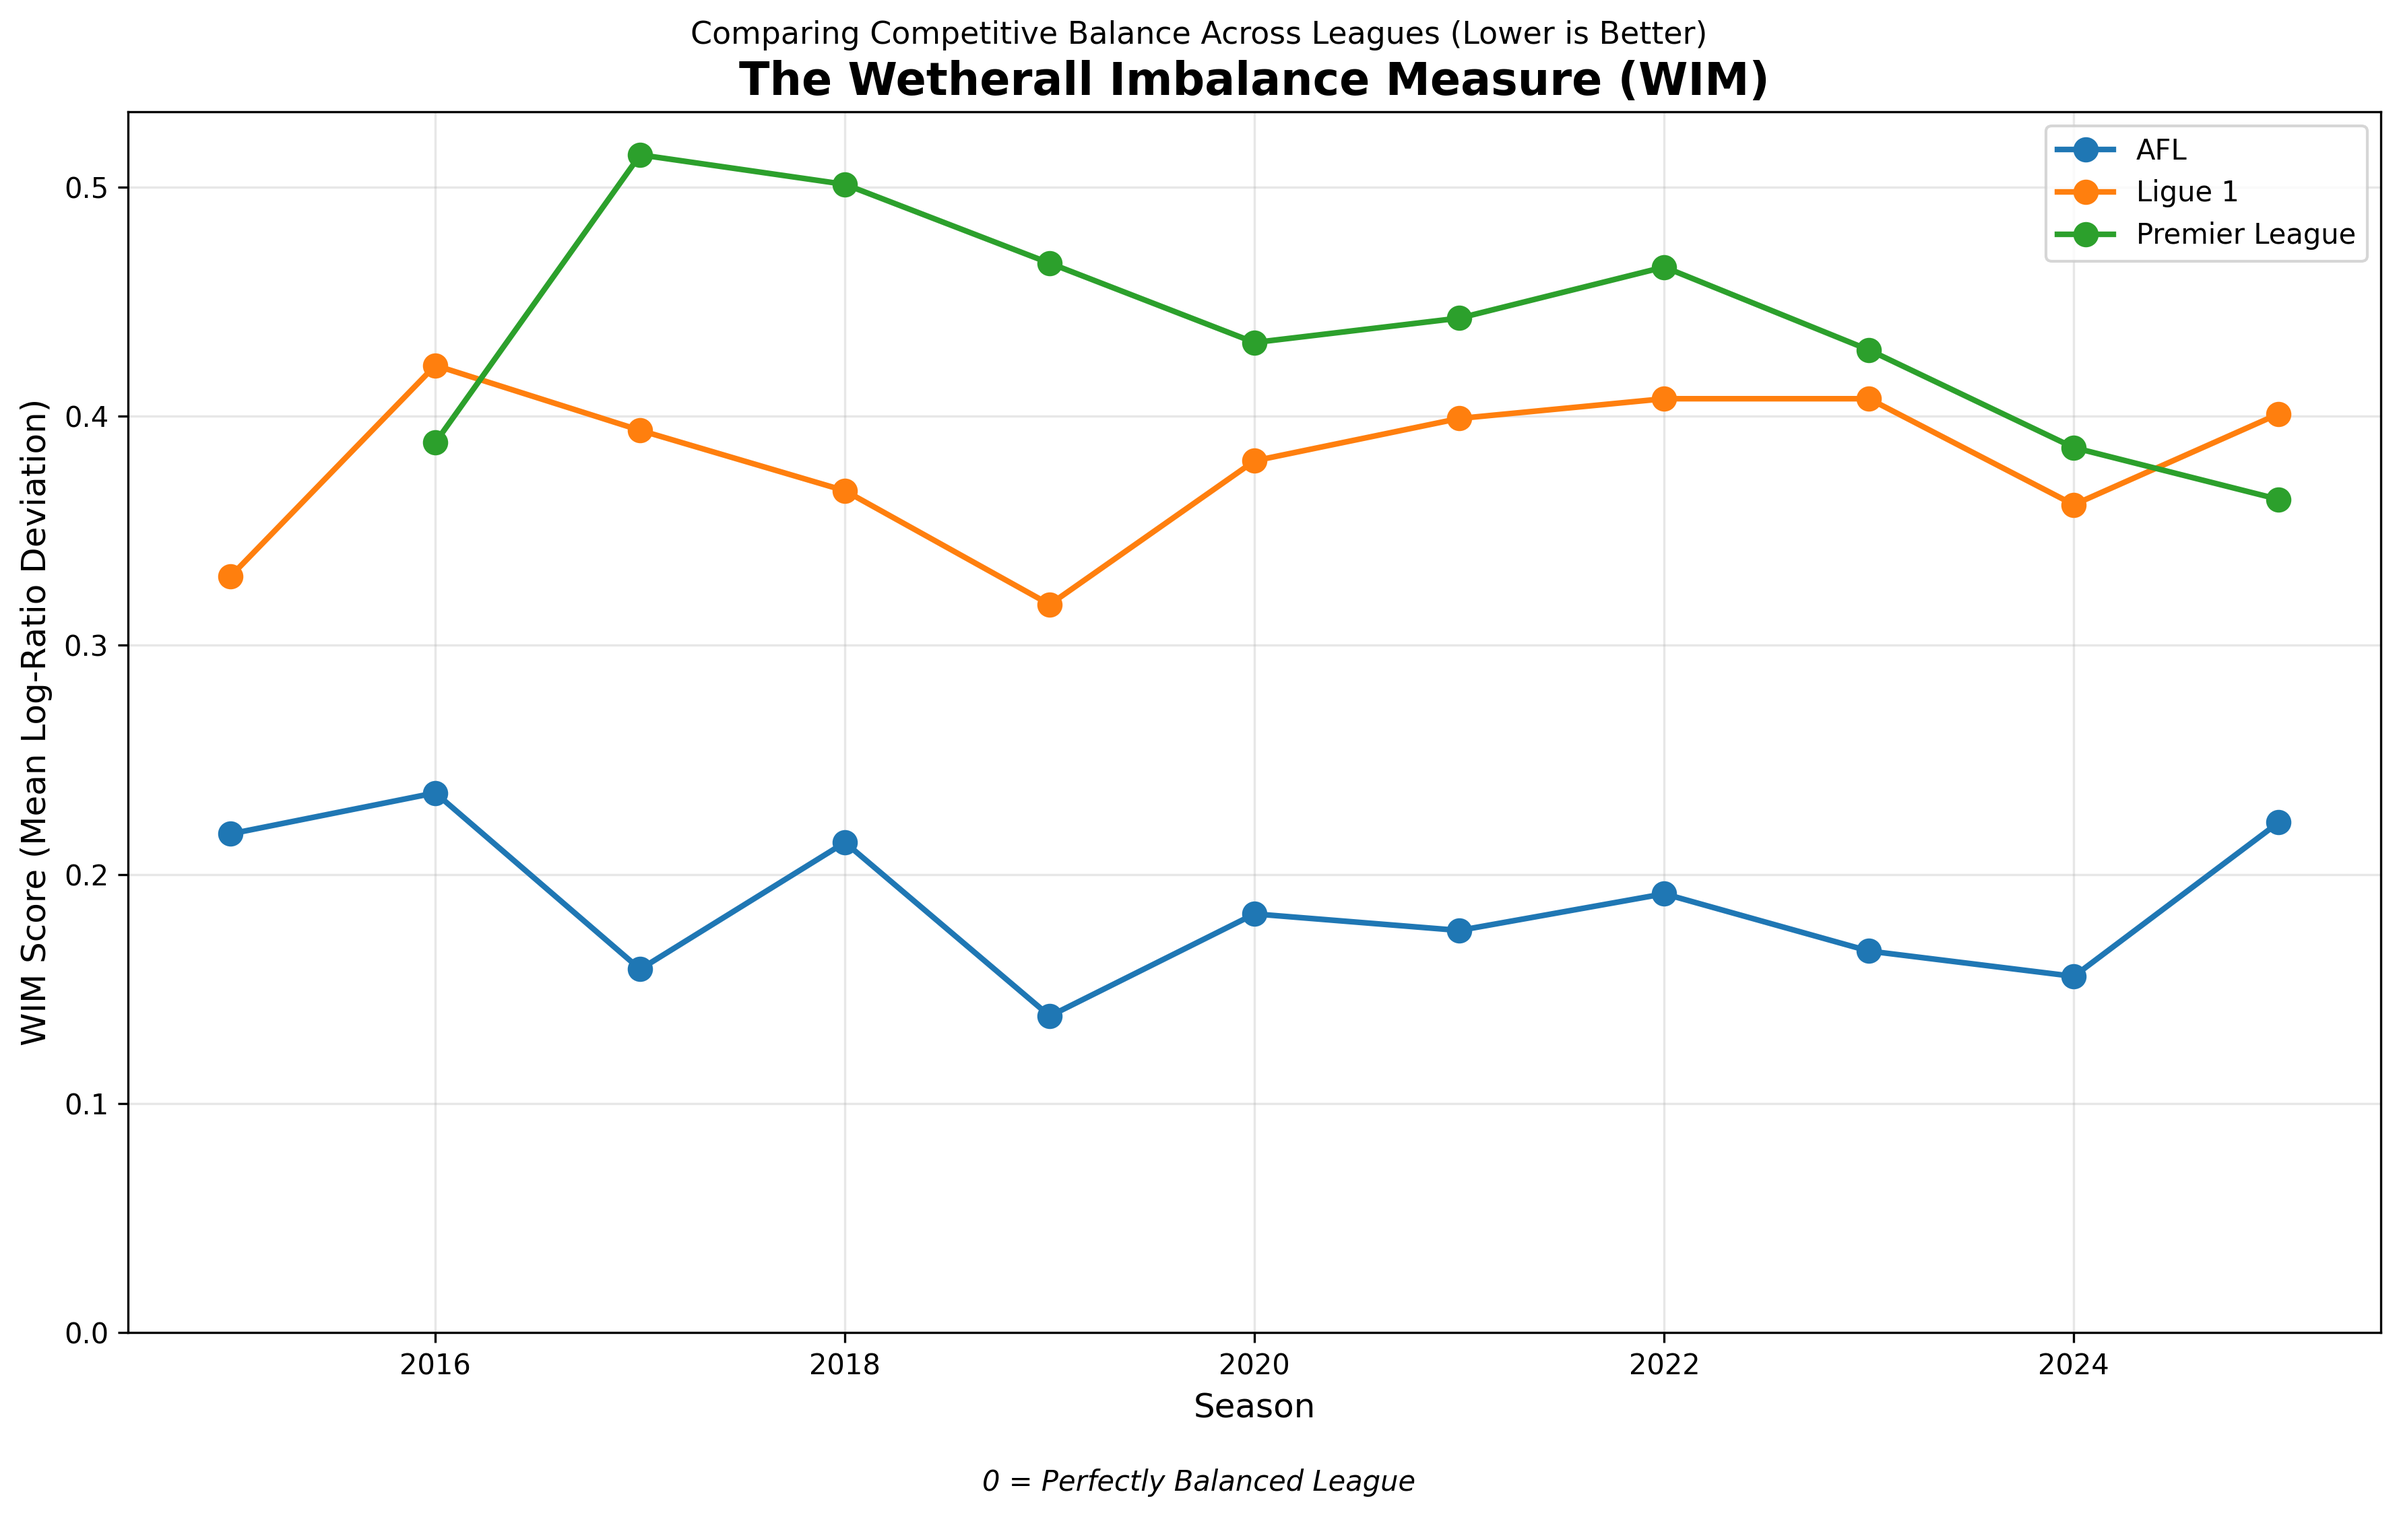
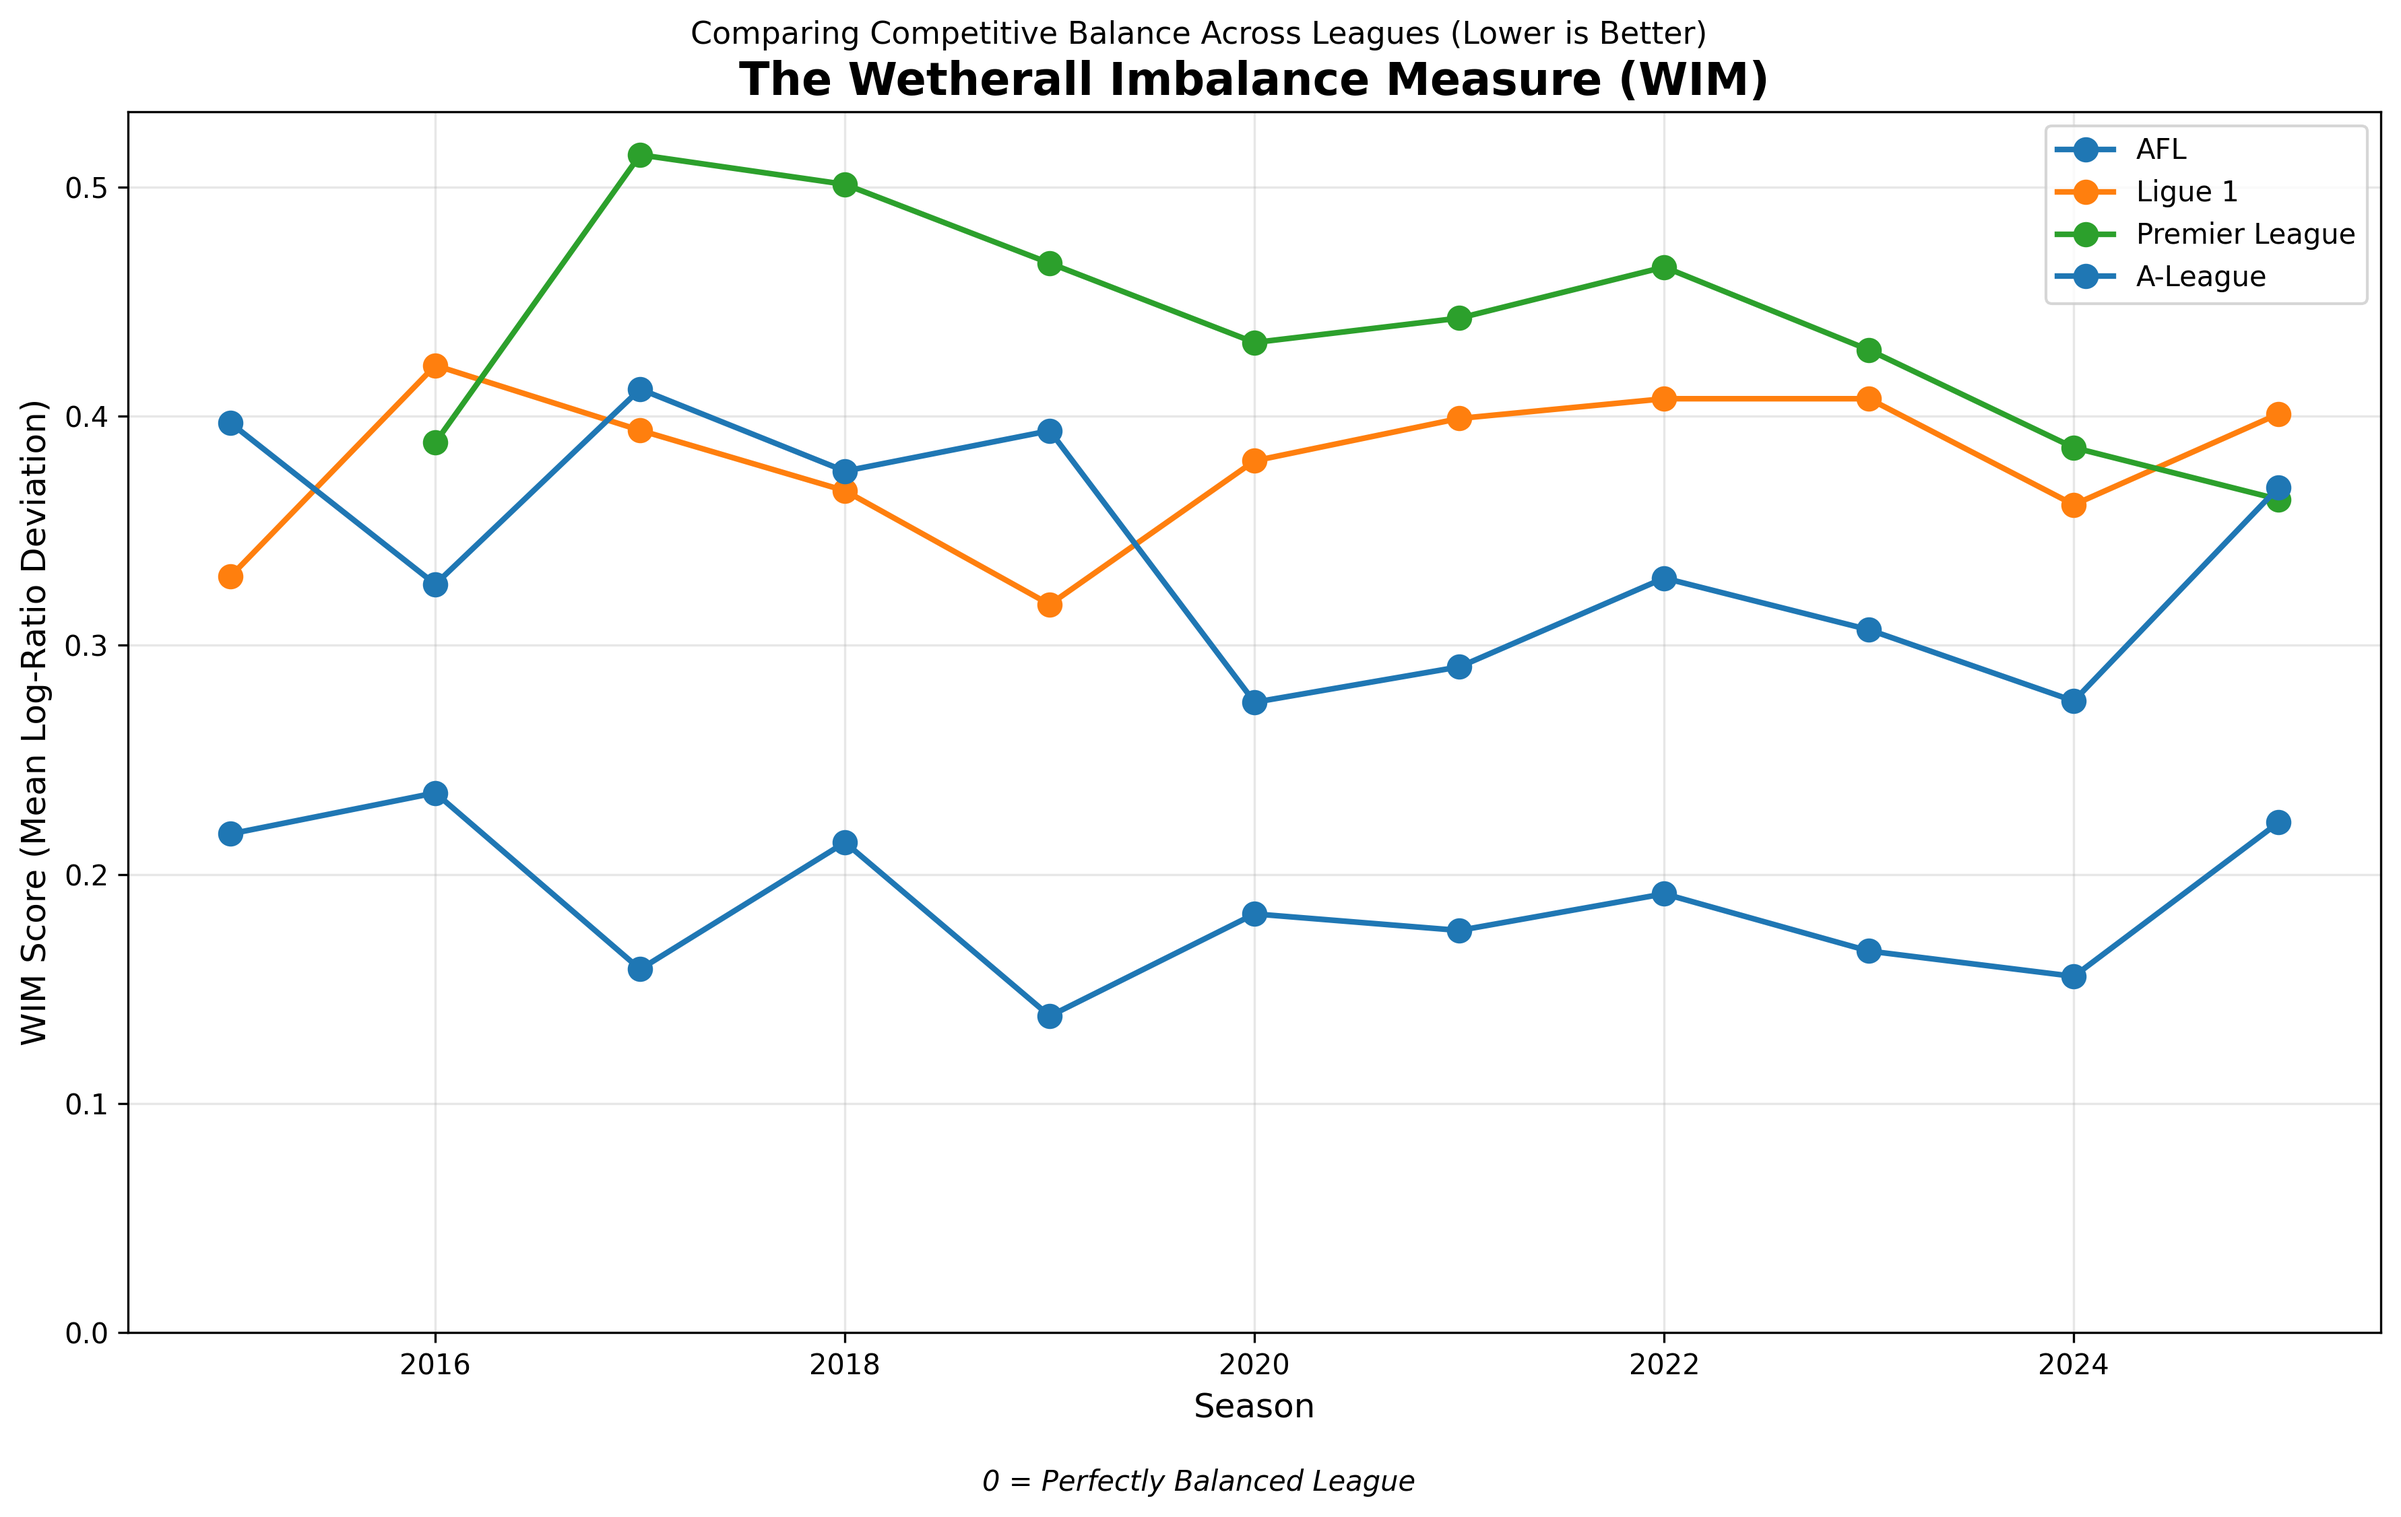
A-League results added

diff --git a/wim_analysis.py b/wim_analysis.py
@@ -154,7 +154,8 @@ def main():
     files = {
         "AFL": "WIM Raw Data - AFL.csv",
         "Ligue 1": "WIM Raw Data - Ligue 1.csv",
-        "Premier League": "WIM Raw Data - Prem League.csv"
+        "Premier League": "WIM Raw Data - Prem League.csv",
+        "A-League": "WIM Raw Data - A-League.csv"
     }
     
     # Get the directory where this script is located
